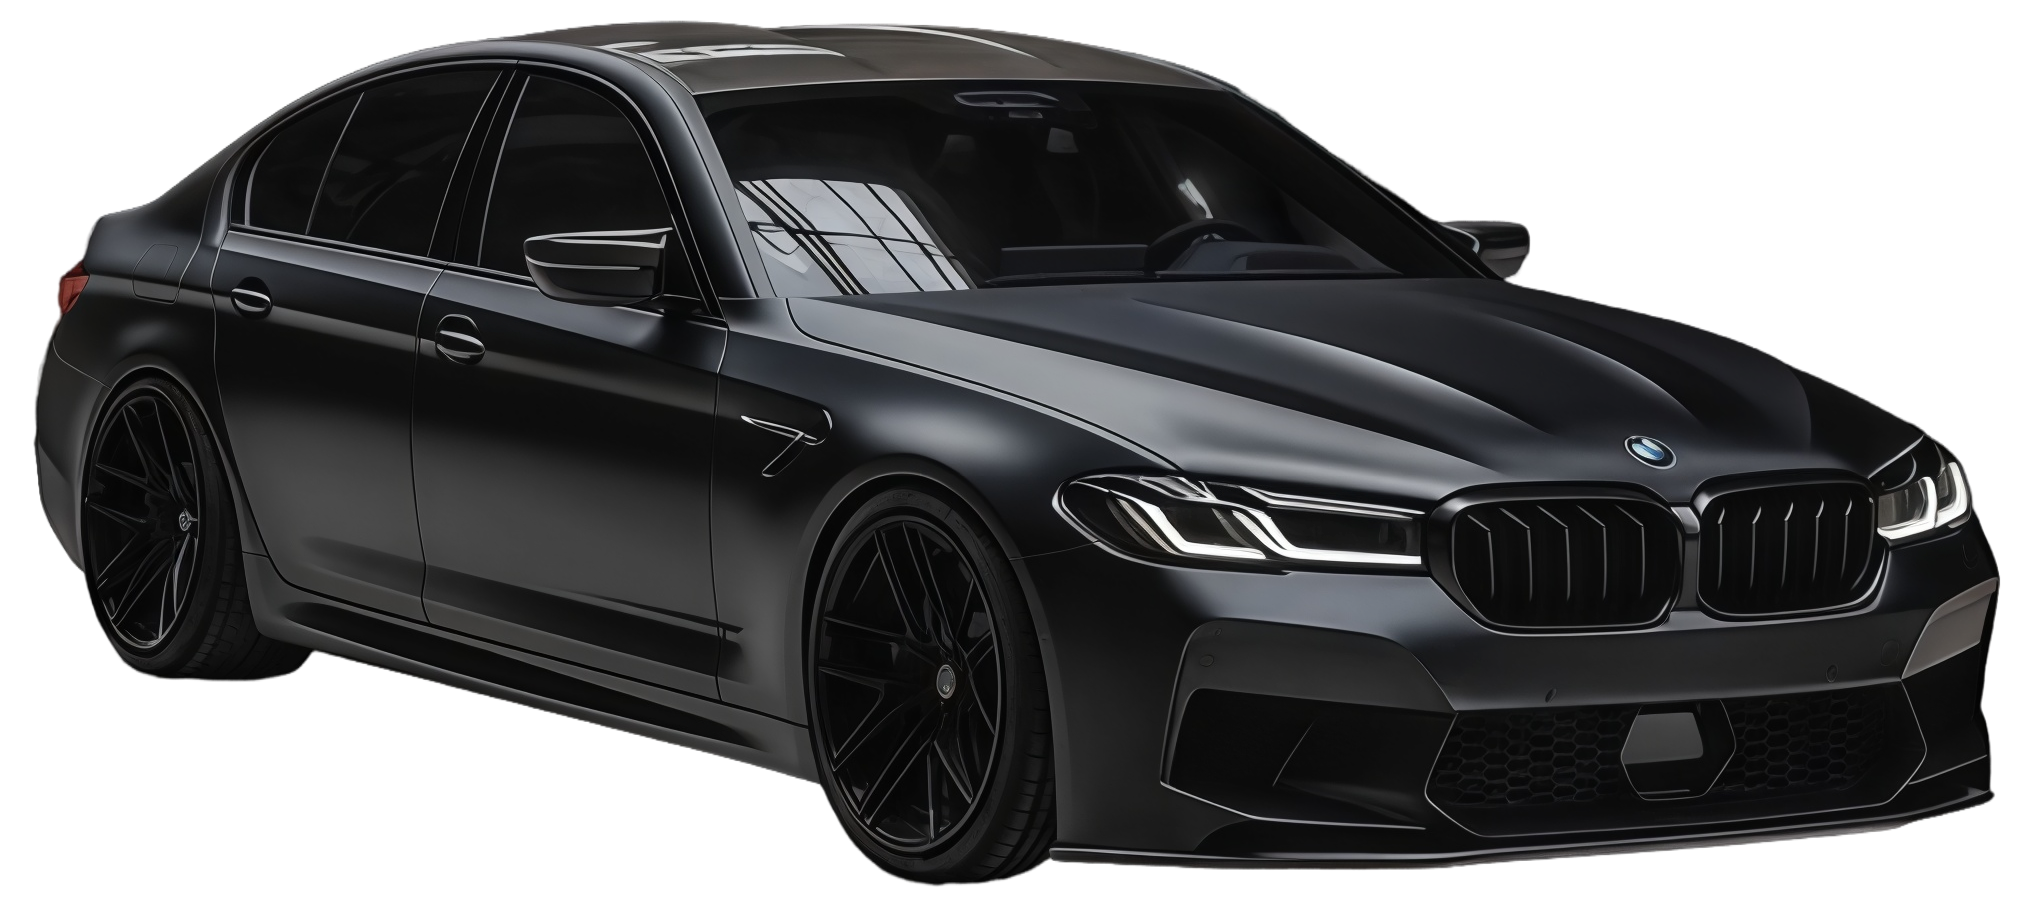
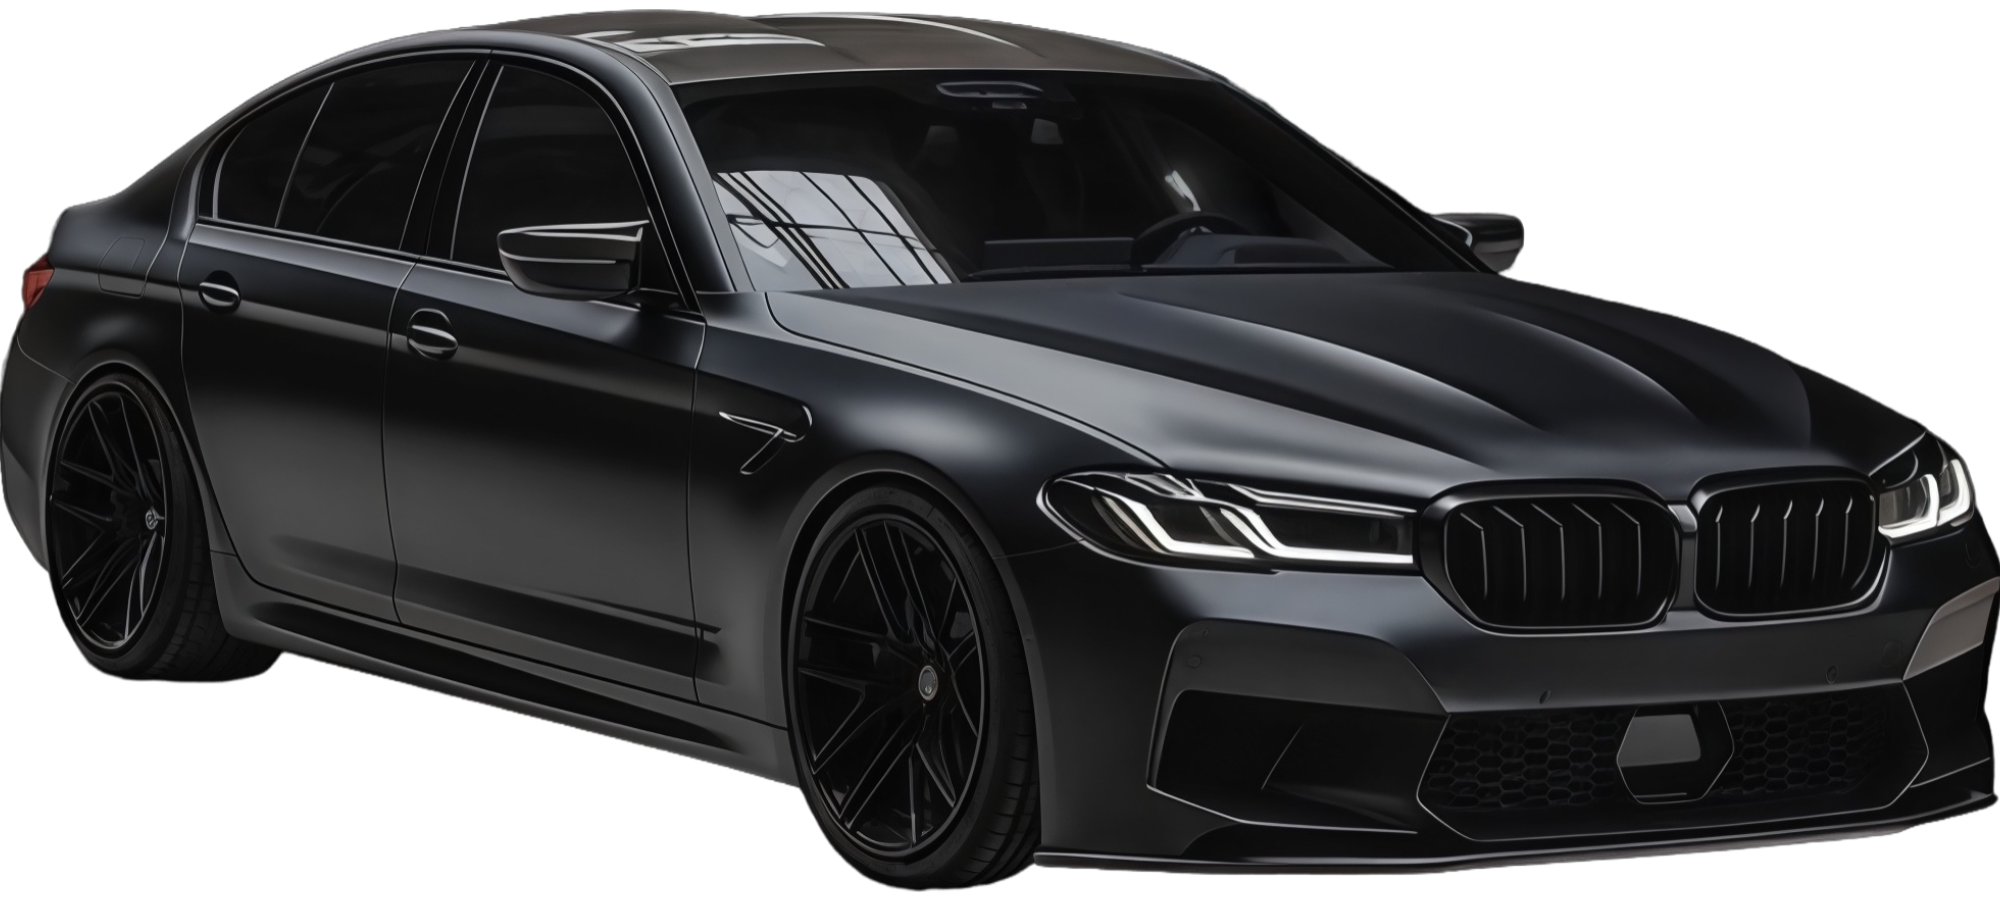
Описание изменений

diff --git a/public/assets/css/style.css b/public/assets/css/style.css
@@ -1150,6 +1150,10 @@
                 pointer-events: none;
                 text-transform: uppercase;
             }
+
+              .offer-image img {
+            width: 70%;
+        }
         }
 
         /* offer end */

diff --git a/resources/views/home/index.blade.php b/resources/views/home/index.blade.php
@@ -742,148 +742,136 @@
             });
         }
 
-        // Tabs functionality
-        document.addEventListener('DOMContentLoaded', function() {
-            const tabs = document.querySelectorAll('.tab-btn');
-            const contents = document.querySelectorAll('.tab-content');
+       document.addEventListener('DOMContentLoaded', function() {
 
-            tabs.forEach(tab => {
-                tab.addEventListener('click', () => {
-                    tabs.forEach(btn => btn.classList.remove('active'));
-                    contents.forEach(c => c.style.display = 'none');
+    // ==================== TABS ====================
+    const tabs = document.querySelectorAll('.tab-btn');
+    const contents = document.querySelectorAll('.tab-content');
 
-                    tab.classList.add('active');
-                    const targetTab = document.getElementById(tab.dataset.tab);
-                    if (targetTab) {
-                        targetTab.style.display = 'block';
-                    }
-                });
+    tabs.forEach(tab => {
+        tab.addEventListener('click', () => {
+            tabs.forEach(btn => btn.classList.remove('active'));
+            contents.forEach(c => c.style.display = 'none');
+
+            tab.classList.add('active');
+            const targetTab = document.getElementById(tab.dataset.tab);
+            if (targetTab) {
+                targetTab.style.display = 'block';
+            }
+        });
+    });
+
+    // ==================== REVIEWS SLIDER ====================
+    const track = document.querySelector('.reviews-track');
+    const scrollLeftBtn = document.querySelector('.scroll-left');
+    const scrollRightBtn = document.querySelector('.scroll-right');
+
+    if (track && scrollLeftBtn && scrollRightBtn) {
+        let isScrolling = false;
+
+        function getScrollStep() {
+            const firstCard = track.querySelector('.review-card');
+            if (!firstCard) return 400;
+
+            const cardWidth = firstCard.offsetWidth;
+            const gap = parseFloat(getComputedStyle(track.querySelector('.reviews-container')).gap) || 24;
+
+            return cardWidth + gap;
+        }
+
+        function updateButtonVisibility() {
+            if (track.scrollLeft <= 0) {
+                scrollLeftBtn.style.display = 'none';
+            } else {
+                scrollLeftBtn.style.display = 'block';
+            }
+
+            const maxScrollLeft = track.scrollWidth - track.clientWidth;
+            if (track.scrollLeft >= maxScrollLeft - 1) {
+                scrollRightBtn.style.display = 'none';
+            } else {
+                scrollRightBtn.style.display = 'block';
+            }
+        }
+
+        function smoothScroll(container, direction) {
+            if (isScrolling) return;
+            isScrolling = true;
+            const scrollAmount = getScrollStep();
+            container.scrollBy({
+                left: direction === 'right' ? scrollAmount : -scrollAmount,
+                behavior: 'smooth'
             });
-
-            // Reviews slider
-            const track = document.querySelector('.reviews-track');
-            const scrollLeftBtn = document.querySelector('.scroll-left');
-            const scrollRightBtn = document.querySelector('.scroll-right');
-
-            if (track && scrollLeftBtn && scrollRightBtn) {
-                let isScrolling = false;
-
-                function getScrollStep() {
-                    const firstCard = track.querySelector('.review-card');
-                    if (!firstCard) return 400;
-
-                    const cardWidth = firstCard.offsetWidth;
-                    const gap = parseFloat(getComputedStyle(track.querySelector('.reviews-container')).gap) || 24;
-
-                    return cardWidth + gap;
-                }
-
-                function updateButtonVisibility() {
-                    if (track.scrollLeft <= 0) {
-                        scrollLeftBtn.style.display = 'none';
-                    } else {
-                        scrollLeftBtn.style.display = 'block';
-                    }
-
-                    const maxScrollLeft = track.scrollWidth - track.clientWidth;
-                    if (track.scrollLeft >= maxScrollLeft - 1) {
-                        scrollRightBtn.style.display = 'none';
-                    } else {
-                        scrollRightBtn.style.display = 'block';
-                    }
-                }
-
+            setTimeout(() => {
+                isScrolling = false;
                 updateButtonVisibility();
-                track.addEventListener('scroll', updateButtonVisibility);
-                window.addEventListener('resize', updateButtonVisibility);
+            }, 600);
+        }
 
-                scrollRightBtn.addEventListener('click', function() {
-                    if (isScrolling) return;
-                    smoothScroll(track, 'right');
-                });
+        updateButtonVisibility();
+        track.addEventListener('scroll', updateButtonVisibility);
+        window.addEventListener('resize', updateButtonVisibility);
 
-                scrollLeftBtn.addEventListener('click', function() {
-                    if (isScrolling) return;
-                    smoothScroll(track, 'left');
-                });
+        scrollRightBtn.addEventListener('click', function() {
+            if (!isScrolling) smoothScroll(track, 'right');
+        });
 
-                function smoothScroll(container, direction) {
-                    if (isScrolling) return;
-                    isScrolling = true;
-                    const scrollAmount = getScrollStep();
-                    container.scrollBy({
-                        left: direction === 'right' ? scrollAmount : -scrollAmount,
-                        behavior: 'smooth'
-                    });
-                    setTimeout(() => {
-                        isScrolling = false;
-                        updateButtonVisibility();
-                    }, 600);
-                }
-            }
-        })();
-    </script>
+        scrollLeftBtn.addEventListener('click', function() {
+            if (!isScrolling) smoothScroll(track, 'left');
+        });
+    }
 
-    <script>
-        (function() {
-            const slides = document.querySelectorAll('.hero-slide');
-            const dots = document.querySelectorAll('.hero-dot');
+    // ==================== HERO SLIDER ====================
+    const slides = document.querySelectorAll('.hero-slide');
+    const dots = document.querySelectorAll('.hero-dot');
 
-            if (!slides.length) return;
+    if (slides.length && dots.length) {
+        let currentSlide = 0;
+        let autoPlayInterval;
+        const autoPlayDelay = 4000;
 
-            let currentSlide = 0;
-            let autoPlayInterval;
-            const autoPlayDelay = 4000;
+        function goToSlide(index) {
+            slides.forEach(s => s.classList.remove('active'));
+            dots.forEach(d => d.classList.remove('active'));
 
-            function goToSlide(index) {
-                slides.forEach(s => s.classList.remove('active'));
-                dots.forEach(d => d.classList.remove('active'));
+            currentSlide = index;
 
-                currentSlide = index;
+            slides[currentSlide].classList.add('active');
+            dots[currentSlide].classList.add('active');
+        }
 
-                slides[currentSlide].classList.add('active');
-                dots[currentSlide].classList.add('active');
-            }
+        function nextSlide() {
+            let next = currentSlide + 1;
+            if (next >= slides.length) next = 0;
+            goToSlide(next);
+        }
 
-            function nextSlide() {
-                let next = currentSlide + 1;
-                if (next >= slides.length) {
-                    next = 0;
-                }
-                goToSlide(next);
-            }
+        function startAutoPlay() {
+            autoPlayInterval = setInterval(nextSlide, autoPlayDelay);
+        }
 
-            function prevSlide() {
-                let prev = currentSlide - 1;
-                if (prev < 0) {
-                    prev = slides.length - 1;
-                }
-                goToSlide(prev);
-            }
+        function stopAutoPlay() {
+            clearInterval(autoPlayInterval);
+        }
 
-            function startAutoPlay() {
-                autoPlayInterval = setInterval(nextSlide, autoPlayDelay);
-            }
-
-            function stopAutoPlay() {
-                clearInterval(autoPlayInterval);
-            }
-
-            dots.forEach((dot, i) => {
-                dot.addEventListener('click', () => {
-                    goToSlide(i);
-                    stopAutoPlay();
-                    startAutoPlay();
-                });
+        dots.forEach((dot, i) => {
+            dot.addEventListener('click', () => {
+                goToSlide(i);
+                stopAutoPlay();
+                startAutoPlay();
             });
+        });
 
-            const slider = document.querySelector('.hero-slider');
-            if (slider) {
-                slider.addEventListener('mouseenter', stopAutoPlay);
-                slider.addEventListener('mouseleave', startAutoPlay);
-            }
+        const slider = document.querySelector('.hero-slider');
+        if (slider) {
+            slider.addEventListener('mouseenter', stopAutoPlay);
+            slider.addEventListener('mouseleave', startAutoPlay);
+        }
 
-            startAutoPlay();
-        })();
+        startAutoPlay();
+    }
+
+});
     </script>
+
 @endpush

diff --git a/resources/views/pages/trade-in.blade.php b/resources/views/pages/trade-in.blade.php
@@ -14,6 +14,33 @@
             font-size: clamp(1.25rem, 3.5vw, 24px);
             line-height: 1.5;
         }
+
+        .floating-label-group {
+    position: relative;
+}
+
+.input-icon {
+    position: absolute;
+    left: 12px;
+    top: 50%;
+    transform: translateY(-50%);
+    color: #4071CB;
+    font-size: 16px;
+    z-index: 2;
+    pointer-events: none;
+}
+
+.floating-label-group .form-control {
+    padding-left: 40px;
+}
+
+.floating-label-group label {
+    left: 40px;
+}
+
+.floating-label-group .form-control:read-only {
+    padding-left: 40px;
+}
     </style>
 @endpush
 

diff --git a/resources/views/layouts/app.blade.php b/resources/views/layouts/app.blade.php
@@ -14,6 +14,7 @@
 
     <link rel="shortcut icon" href="{{ asset('assets/images/logo/favicon.svg') }}" type="image/x-icon">
     <link rel="stylesheet" href="{{ asset('assets/css/style.css') }}">
+    <link rel="stylesheet" href="https://cdnjs.cloudflare.com/ajax/libs/font-awesome/6.5.1/css/all.min.css">
 
     <meta name="user-id" content="{{ Auth::id() ?? 'guest' }}">
 
@@ -45,7 +46,6 @@
 
     <script src="https://cdn.jsdelivr.net/npm/bootstrap@5.3.2/dist/js/bootstrap.bundle.min.js"></script>
     <script src="https://cdn.jsdelivr.net/npm/aos@2.3.4/dist/aos.js"></script>
-    <script src="{{ asset('assets/js/main.js') }}"></script>
 
     <script>
         document.addEventListener('DOMContentLoaded', function() {